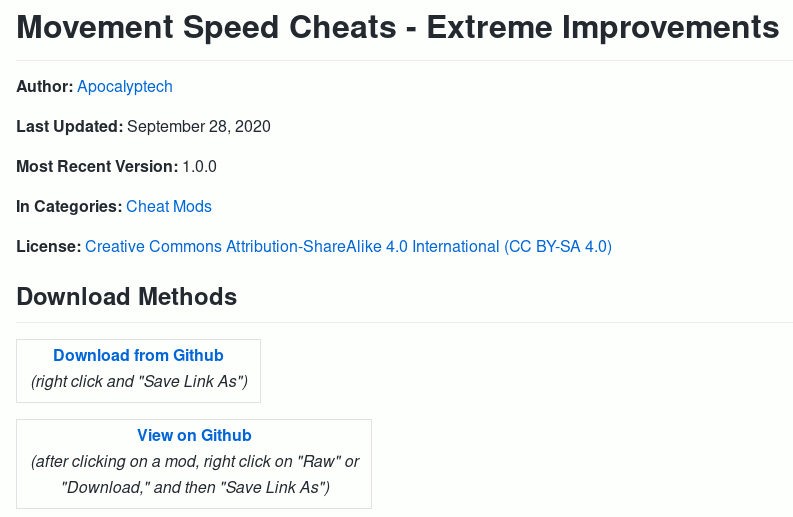
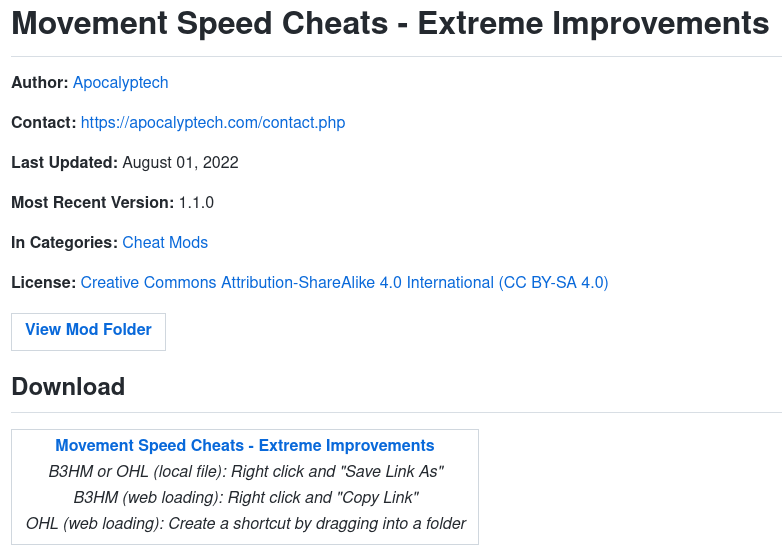
Updating with screenshots for the slightly-changed modcabinet templates

diff --git a/_pages/wlfindingmods.md b/_pages/wlfindingmods.md
@@ -17,17 +17,12 @@ to click around to find what you're looking for.  For instance, you could click 
 mod, which improves character speed by quite a lot.  From there, you'll see a header
 which looks like this:
 
-[![ModCabinet Header](/img/bl3modcabinet.png)](/img/bl3modcabinet.png)
+[![ModCabinet Header](/img/wlmodcabinet.png)](/img/wlmodcabinet.png)
 
-To download the mod to your hard drive, you can right-click on the `Download from Github`
-link and choose "Save Link As."  B3HM does not require you to download the mod,
-if you don't want to, though!  You could instead right-click on `Download from Github`
-and choose "Copy Link Location", and then add in that URL to B3HM's mod list.  That
-way you'll always end up loading the most recent version of the mod.  OpenHotfixLoader
-*does* currently require that you download the mod to your hard drive, though.
-
-If you want to keep your collection of mods a little more stable, you might want to
-download the files locally anyway, of course.
+When using OHL to run mods, you can either save the file locally to our hard drive,
+or have it load the mod from the internet.  To save the file locally, right-click the
+link and choose "Save Link As."  To have OHL load the file from the internet instead,
+simply drag the link to your mods folder to create a shortcut.
 
 ## Direct Github Access
 

diff --git a/_pages/bl3findingmods.md b/_pages/bl3findingmods.md
@@ -19,14 +19,12 @@ which looks like this:
 
 [![ModCabinet Header](/img/bl3modcabinet.png)](/img/bl3modcabinet.png)
 
-To download the mod to your hard drive, you can right-click on the `Download from Github`
-link and choose "Save Link As."  B3HM does not require you to download the mod,
-if you don't want to, though!  You could instead right-click on `Download from Github`
-and choose "Copy Link Location", and then add in that URL to B3HM's mod list.  That
-way you'll always end up loading the most recent version of the mod.
-
-If you want to keep your collection of mods a little more stable, you might want to
-download the files locally anyway, of course.
+When using B3HM or OHL, you can either save the file locally to our hard drive,
+or have them load the mod from the internet.  To save the file locally for either,
+right-click the link and choose "Save Link As."  To have OHL load the file from the
+internet instead, simply drag the link to your mods folder to create a shortcut.  To
+have B3HM load from the internet, right-click on the mod name and choose "Copy Link
+Location," and then paste that into B3HM when asked.
 
 ## Direct Github Access
 
